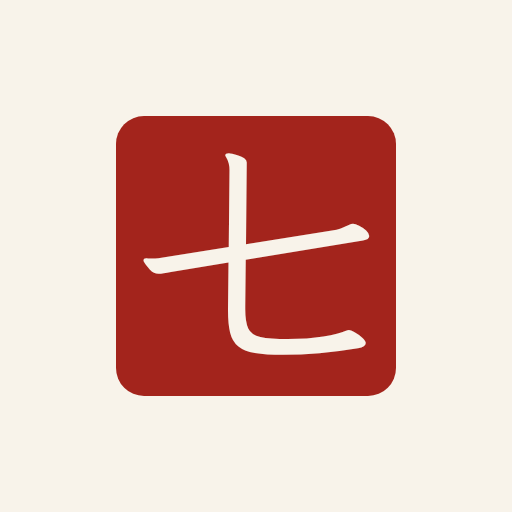
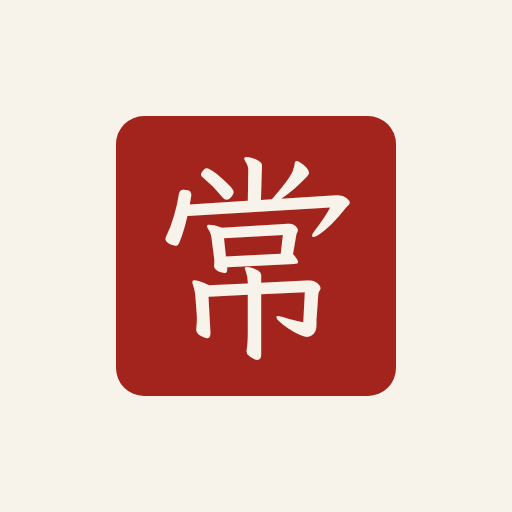
Add files via upload

Changed region(s): [[0.2812, 0.2812, 0.7188, 0.7188]]

diff --git a/index.html b/index.html
@@ -3,8 +3,8 @@
 <head>
 <meta charset="utf-8">
 <meta name="viewport" content="width=device-width, initial-scale=1, viewport-fit=cover">
-<title>七頌 SEPTIES</title>
-<meta name="apple-mobile-web-app-title" content="七頌">
+<title>常頌 SEMPER</title>
+<meta name="apple-mobile-web-app-title" content="常頌">
 <meta name="theme-color" content="#ffffff">
 <link rel="manifest" href="manifest.webmanifest">
 <link rel="apple-touch-icon" href="icons/apple-touch-icon.png">
@@ -17,9 +17,9 @@
 <div id="welcome" class="welcome">
   <div class="welcome-in">
     <img src="icons/icon-512.png" alt="" class="welcome-logo">
-    <h1>SEPTIES</h1>
-    <p class="welcome-zh">七頌</p>
-    <blockquote class="welcome-verse">我要每天讚美祢七次。<cite>聖詠 119:164</cite><span class="welcome-lat">SEPTIES 是拉丁文，意即「七次」，出自這節聖詠。</span></blockquote>
+    <h1>SEMPER</h1>
+    <p class="welcome-zh">常頌</p>
+    <blockquote class="welcome-verse">我要時時讚美上主，<br>我的口舌不斷讚頌上主。<cite>聖詠 34:2</cite><span class="welcome-lat">SEMPER 是拉丁文，意即「常常」，出自這節聖詠。</span></blockquote>
     <div class="welcome-script"><button data-script="t" class="pill">繁體字</button><button data-script="s" class="pill">简体字</button></div>
     <button id="welcomeGo" class="pill wide welcome-go">進入</button>
   </div>
@@ -39,7 +39,7 @@
 <div id="settings" class="sheet" hidden>
   <div class="sheet-in">
     <h2>設定</h2>
-    <p class="about"><b>SEPTIES 七頌</b>　「我一日七次讚美祢」（詠119:164）</p>
+    <p class="about"><b>SEMPER 常頌</b>　「我要時時讚美上主」（詠34:2）</p>
     <div class="row"><span>禮儀日曆</span><span id="calendars" class="pills"></span></div>
     <div class="row"><span>文字</span><button data-script="t" class="pill">繁體字</button><button data-script="s" class="pill">简体字</button></div>
     <div class="row"><span>字型</span><span class="pills"><button data-font="ming" class="pill" style="font-family:SeptiesMing,serif">明體</button><button data-font="hei" class="pill" style="font-family:SeptiesHei,sans-serif">黑體</button><button data-font="kai" class="pill" style="font-family:SeptiesKai,serif">楷體</button><button data-font="sys" class="pill" style="font-family:system-ui,sans-serif">系統</button></span></div>

diff --git a/js/app.js b/js/app.js
@@ -2,7 +2,7 @@ import { loadData, office, dayInfo, HOURS, dateLabel, nearestArchiveDate, invitP
 import { fromIso, iso, WD } from './calendar.js';
 import { initTTS, stop as stopTTS } from './tts.js';
 
-const APP_VERSION = 'v30';   // keep in step with VERSION in sw.js
+const APP_VERSION = 'v32';   // keep in step with VERSION in sw.js
 const $ = (s) => document.querySelector(s);
 const store = { get(k, d) { try { const v = localStorage.getItem('rike.' + k); return v === null ? d : JSON.parse(v); } catch { return d; } },
   set(k, v) { try { localStorage.setItem('rike.' + k, JSON.stringify(v)); } catch {} } };

diff --git a/sw.js b/sw.js
@@ -1,5 +1,5 @@
 // Service worker：全部經文離線可用。更新時請改 VERSION。
-const VERSION = 'rike-v30';
+const VERSION = 'rike-v32';
 const FONTS = 'fonts-v1';   // change only when the font files change
 const SHELL = ['./', 'index.html', 'css/app.css', 'js/app.js', 'js/calendar.js', 'js/office.js', 'js/tts.js', 'manifest.webmanifest',
   'css/fonts.css', 'icons/icon-192.png', 'icons/icon-512.png', 'icons/apple-touch-icon.png',
